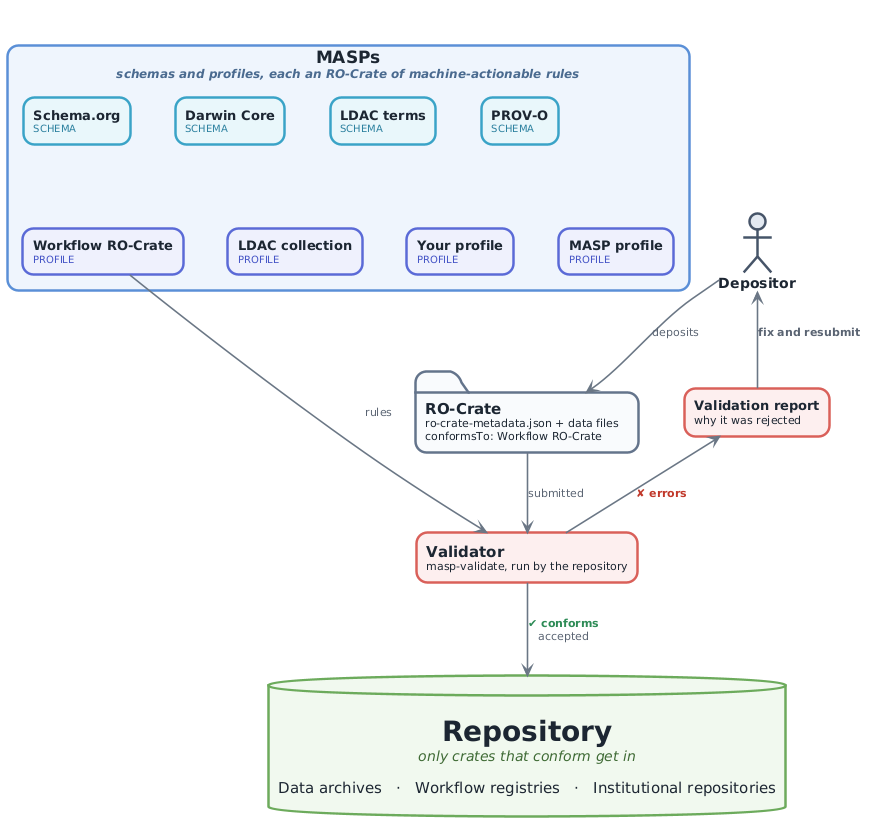
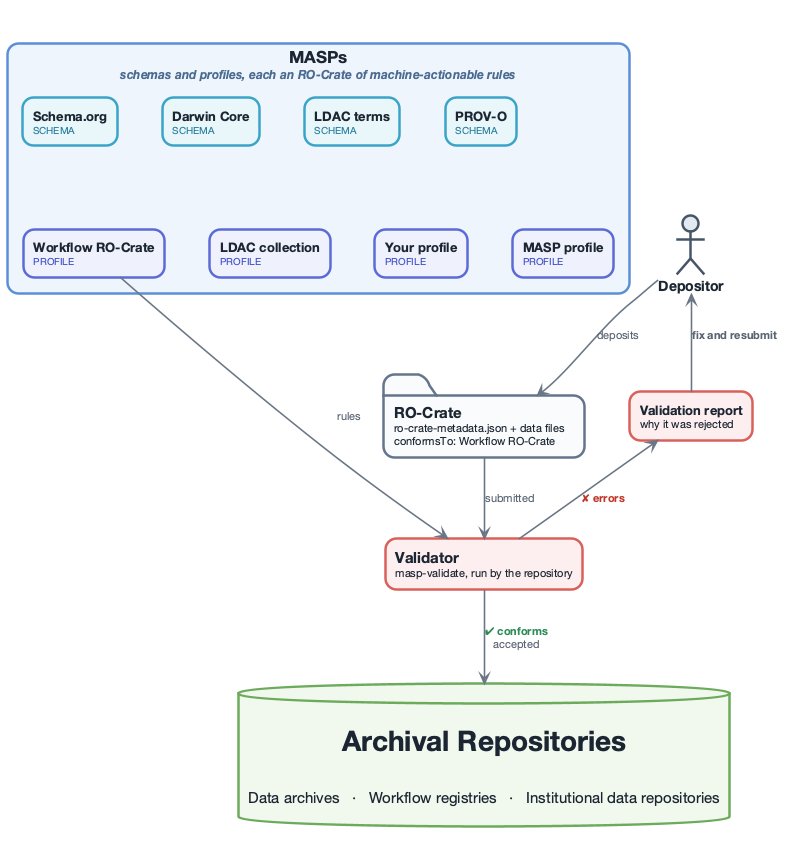
Render SVG and PNG separately; Archival Repositories in deposit diagram
PlantUML uses only the last -t option, so "-tsvg -tpng" rendered PNGs only
and the SVGs the README shows were never updated by the workflow. Render
each format in its own run, in the workflow, README and source comments.

Deposit diagram: "Archival Repositories", without the gatekeeping tagline.

diff --git a/README.md b/README.md
@@ -103,7 +103,7 @@ This runs `generate-masp-docs` from [ro-crate-masp-tools](https://github.com/cra
 The diagrams in this README are PlantUML sources in [docs/diagrams/](docs/diagrams/), sharing a stylesheet (`masp-style.iuml`) and, for the editing and deposit diagrams, the MASP examples (`masp-examples.iuml`). After editing one, regenerate the images with [PlantUML](https://plantuml.com/), but this is not required as the [Render diagrams](.github/workflows/diagrams.yml) workflow re-renders the images and commits them if they changed.
 
 ```bash
-cd docs/diagrams && plantuml -tsvg -tpng *.puml
+cd docs/diagrams && plantuml -tsvg *.puml && plantuml -tpng *.puml
 ```
 
 ## Help wanted!
